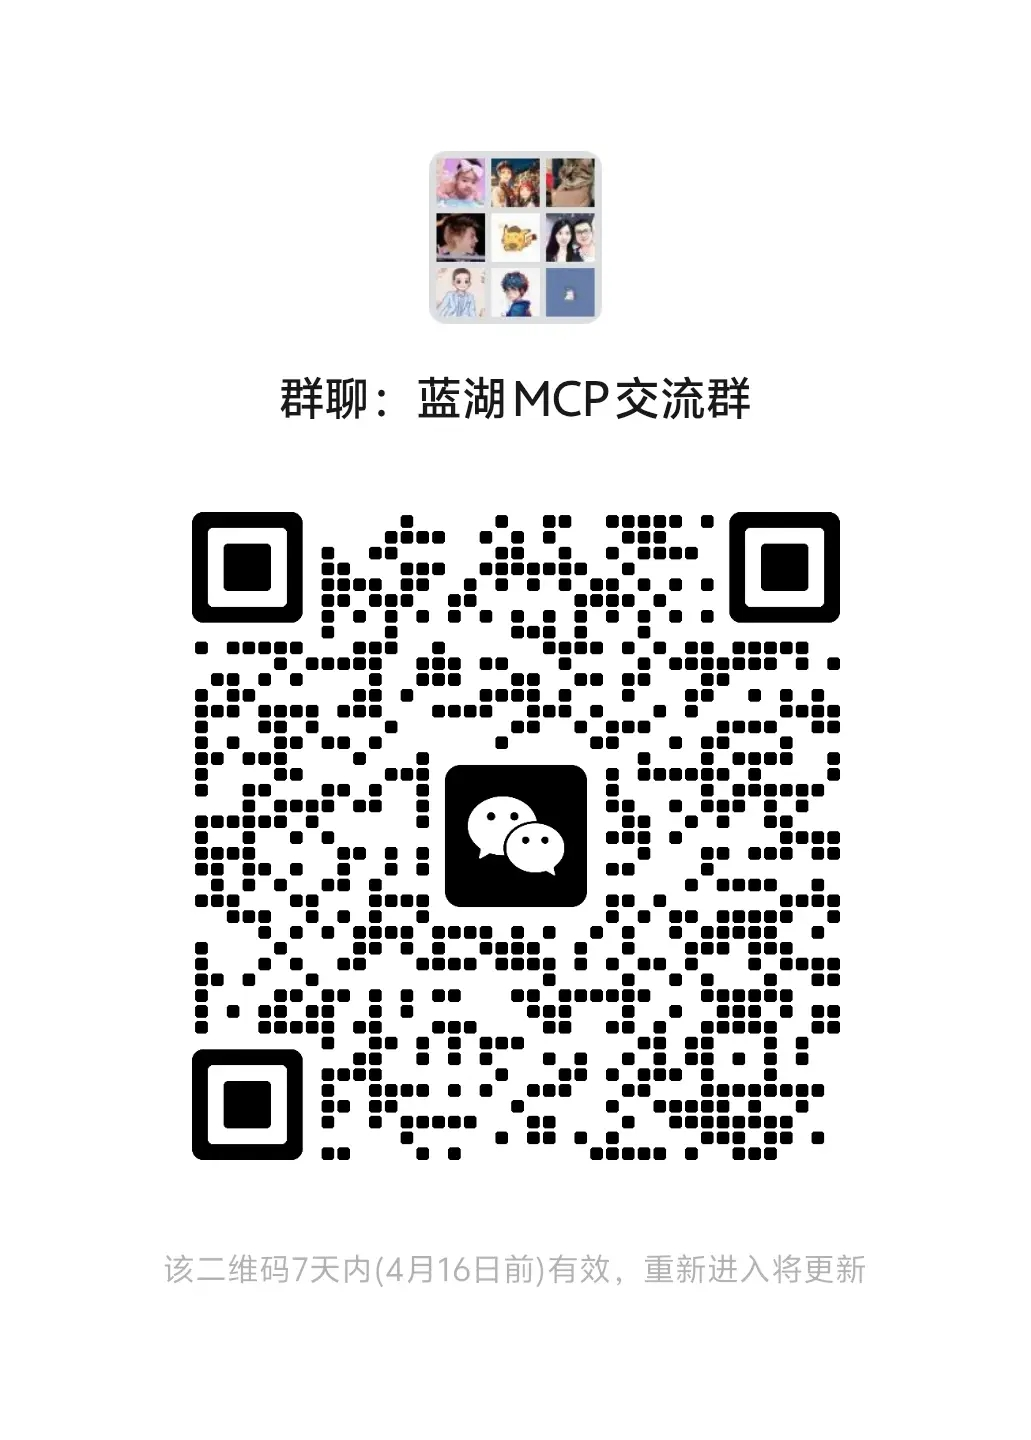
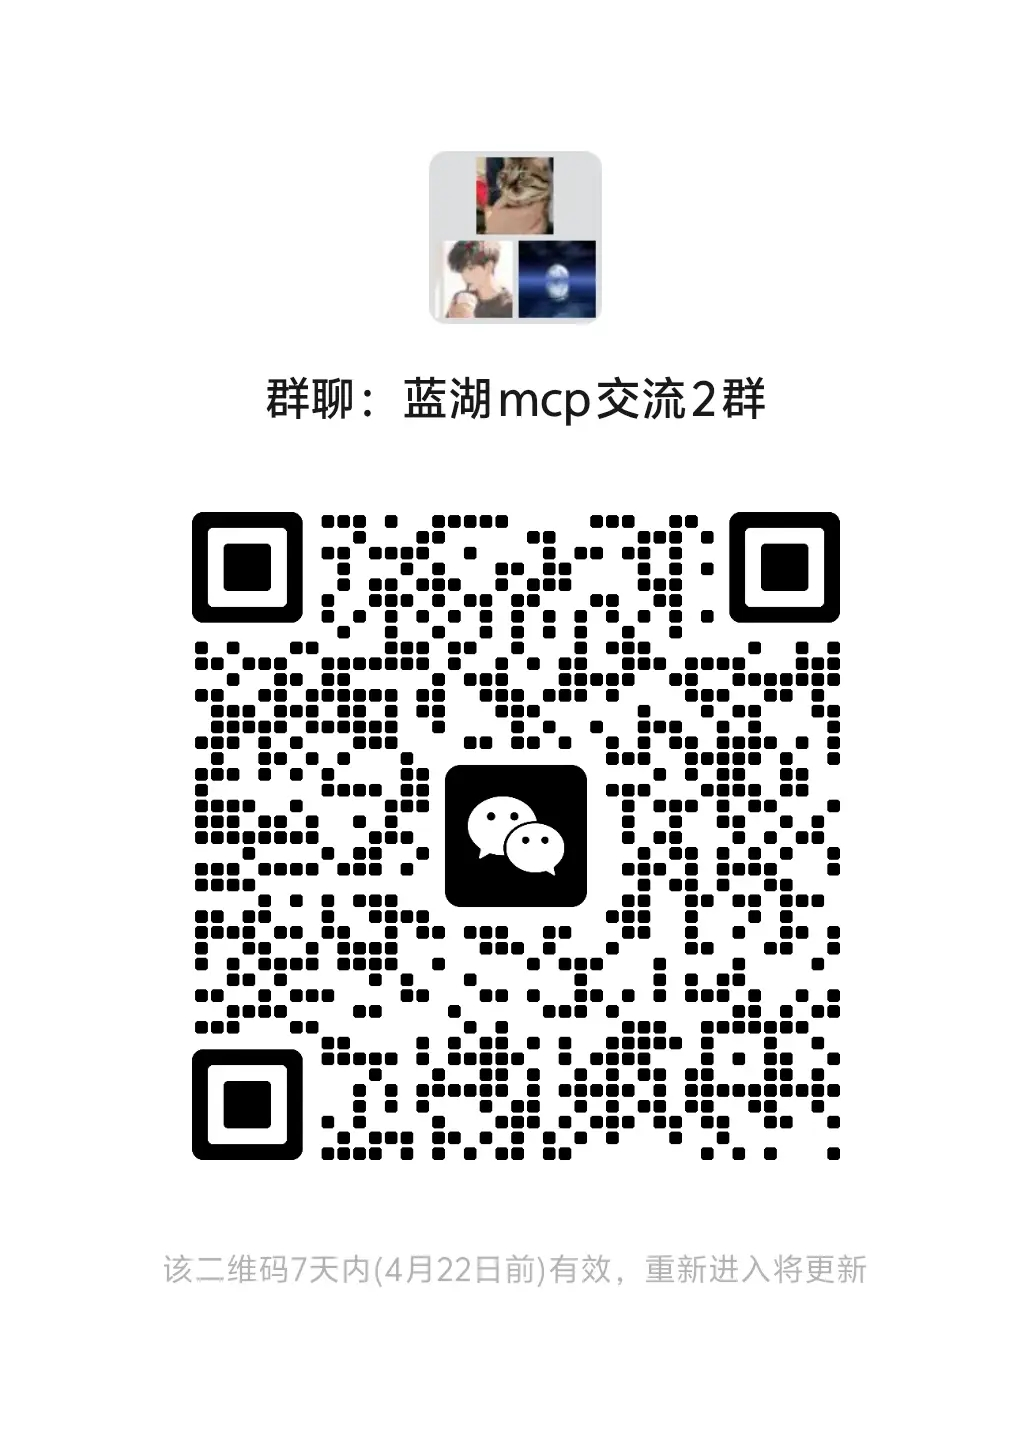
docs: 更新微信群二维码图片及 README 版本号至 20260415
Made-with: Cursor

diff --git a/README.md b/README.md
@@ -881,7 +881,7 @@ black lanhu_mcp_server.py
 
 - 提交 Issue: [GitHub Issues](https://github.com/dsphper/lanhu-mcp/issues)
 - 邮件: dsphper@gmail.com
-<p align="center"><img src="images/wechat.jpg?v=20260409" alt="微信群二维码" width="400" /></p>
+<p align="center"><img src="images/wechat.jpg?v=20260415" alt="微信群二维码" width="400" /></p>
 
 ## 🗺 路线图
 
